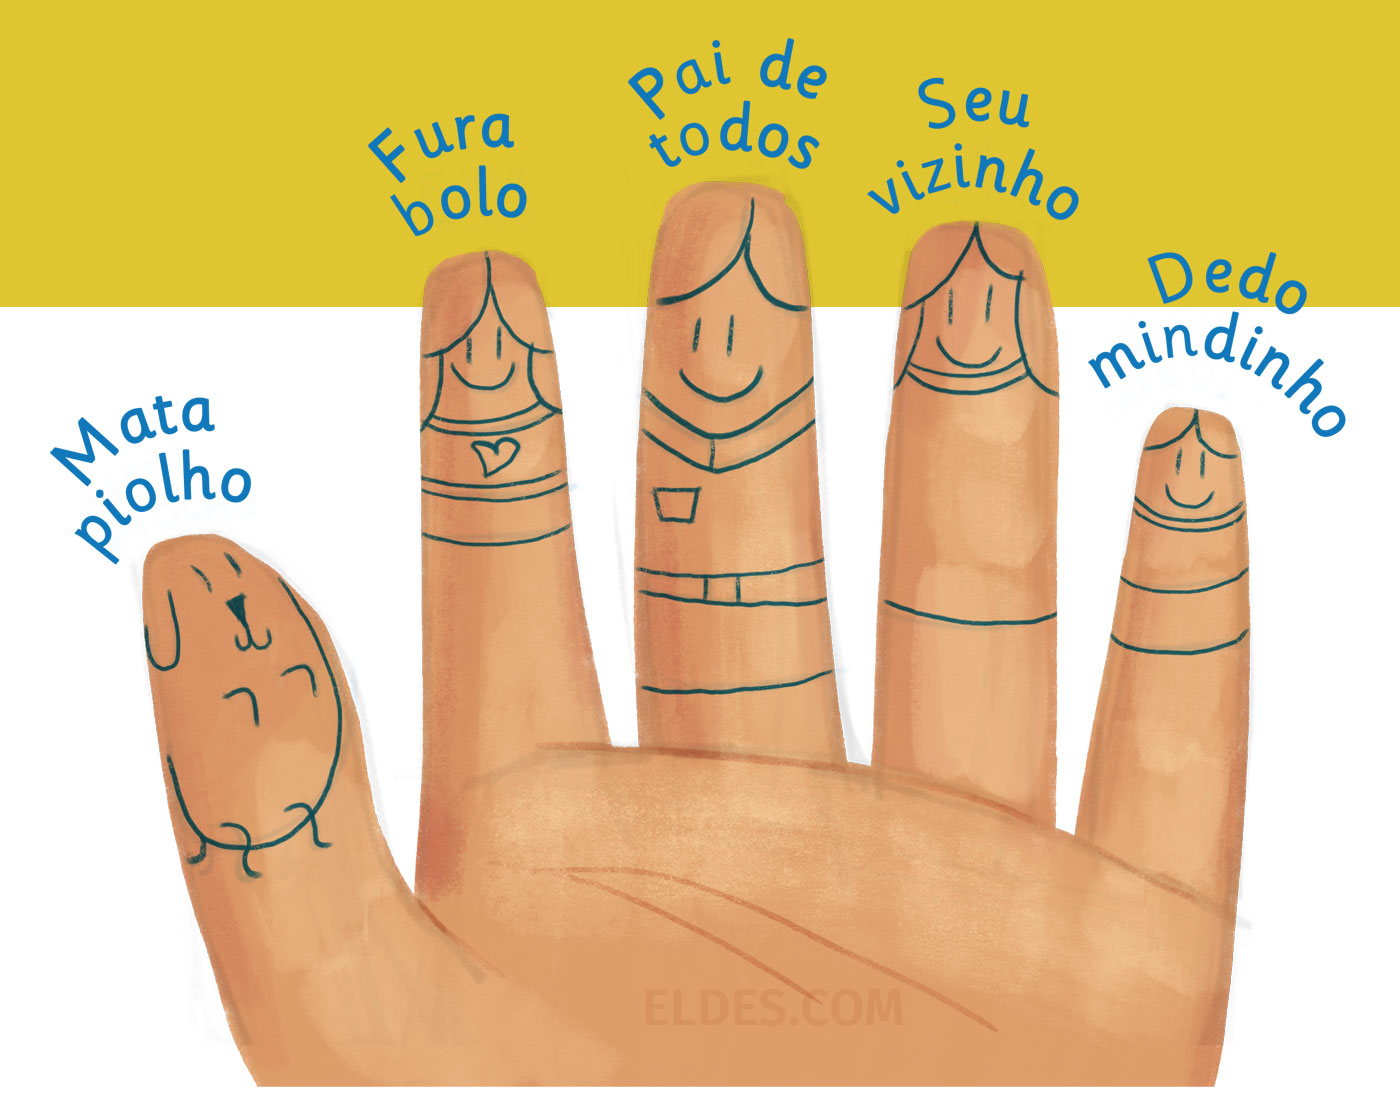
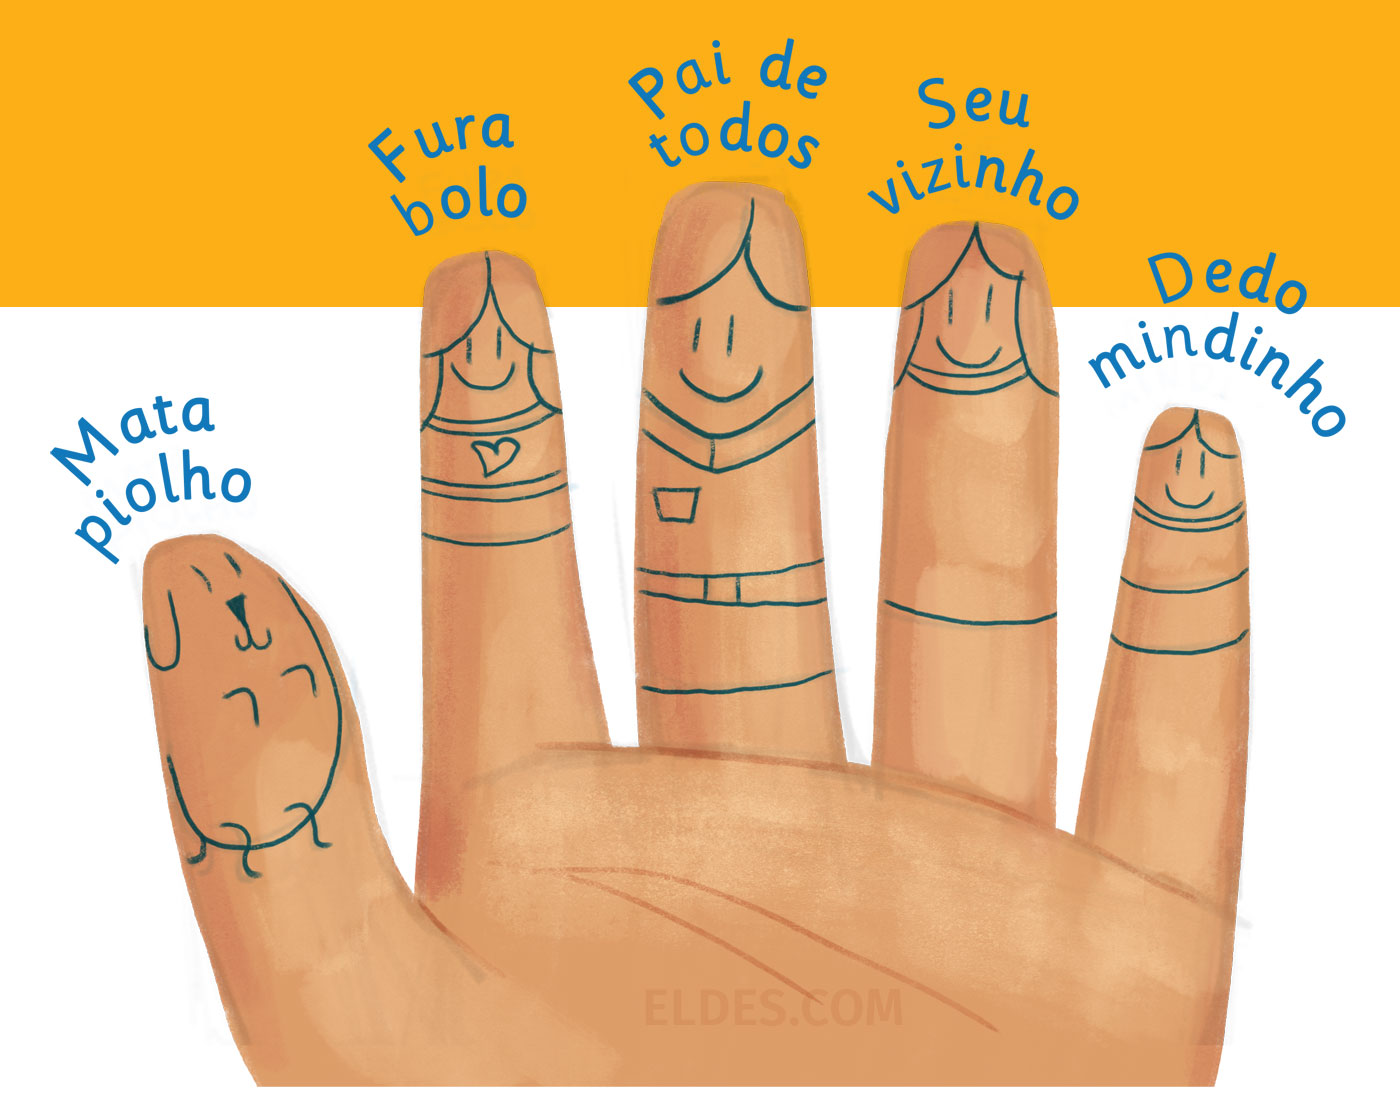
[=] Change background color.

Changed region(s): [[0.0, 0.0, 1.0, 0.2772]]

diff --git a/pages/brasil-na-bagagem-textbook-illustrations.tsx b/pages/brasil-na-bagagem-textbook-illustrations.tsx
@@ -67,7 +67,8 @@ import BeEmbed from '../components/BeEmbed'
 
 const BrasilNaBagagemTextbookIllustrationsPage: NextPage = () => {
 
-	const backgroundColor = '#E0C531'
+	const backgroundColor = '#fcaf17'
+	const foregroundColor = '#ffffff'
 
 	return (
 		<Page title="Brasil na Bagagem" subtitle="textbook illustrations" section={ PageSection.Portfolio }>
@@ -82,7 +83,7 @@ const BrasilNaBagagemTextbookIllustrationsPage: NextPage = () => {
 					backgroundColor={ backgroundColor }
 					fill={ true }
 				/>
-				<BeParagaph backgroundColor={ backgroundColor } style={{ textAlign: 'center', color: '#fff',  }}>
+				<BeParagaph backgroundColor={ backgroundColor } style={{ textAlign: 'center', color: foregroundColor,  }}>
 					O Brasil na Bagagem, da autora Erika Campanharo, é um livro didático dirigido a crianças e adolescentes vivendo fora do Brasil. É voltado para alfabetizar, ampliar e desenvolver a linguagem em português e também estreitar o vínculo com a cultura brasileira.
 				</BeParagaph>
 				<BeImage
@@ -91,10 +92,10 @@ const BrasilNaBagagemTextbookIllustrationsPage: NextPage = () => {
 					backgroundColor={ backgroundColor }
 					fill={ true }
 				/>
-				<BeParagaph backgroundColor={ backgroundColor } style={{ textAlign: 'center', color: '#fff' }}>
+				<BeParagaph backgroundColor={ backgroundColor } style={{ textAlign: 'center', color: foregroundColor }}>
 					O processo começa com a definição de todas as ilustrações do livro, composta pelo código, o número de página e a descrição da cena de cada uma delas.
 				</BeParagaph>
-				<BeParagaph backgroundColor={ backgroundColor } style={{ textAlign: 'center', color: '#fff' }}>
+				<BeParagaph backgroundColor={ backgroundColor } style={{ textAlign: 'center', color: foregroundColor }}>
 					E, na sequência, são elaborados os rascunhos de todas as ilustrações, de acordo com a cena e o layout definido pelo designer.
 				</BeParagaph>
 				<BePhotoGrid images={[
@@ -123,7 +124,7 @@ const BrasilNaBagagemTextbookIllustrationsPage: NextPage = () => {
 						alt: 'Rough of Werewolf Names page',
 					},
 				]} cols={3} backgroundColor={ backgroundColor } />
-				<BeParagaph backgroundColor={ backgroundColor } style={{ textAlign: 'center', color: '#fff' }}>
+				<BeParagaph backgroundColor={ backgroundColor } style={{ textAlign: 'center', color: foregroundColor }}>
 					Aprovados os rascunhos, a ilustrações são então arte-finalizadas — podendo sofrer alguns ajustes durante a pintura digital.
 				</BeParagaph>
 				<BeHeading backgroundColor={ backgroundColor } color="#ffffff">
@@ -224,7 +225,7 @@ const BrasilNaBagagemTextbookIllustrationsPage: NextPage = () => {
 				<BeHeading backgroundColor={ backgroundColor } color="#ffffff">
 					<strong>Festas</strong> da cultura brasileira:
 				</BeHeading>
-				<BeParagaph backgroundColor={ backgroundColor } style={{ textAlign: 'center', color: '#fff' }}>
+				<BeParagaph backgroundColor={ backgroundColor } style={{ textAlign: 'center', color: foregroundColor }}>
 					[desenhos para colorir]
 				</BeParagaph>
 				<BePhotoGrid images={[
